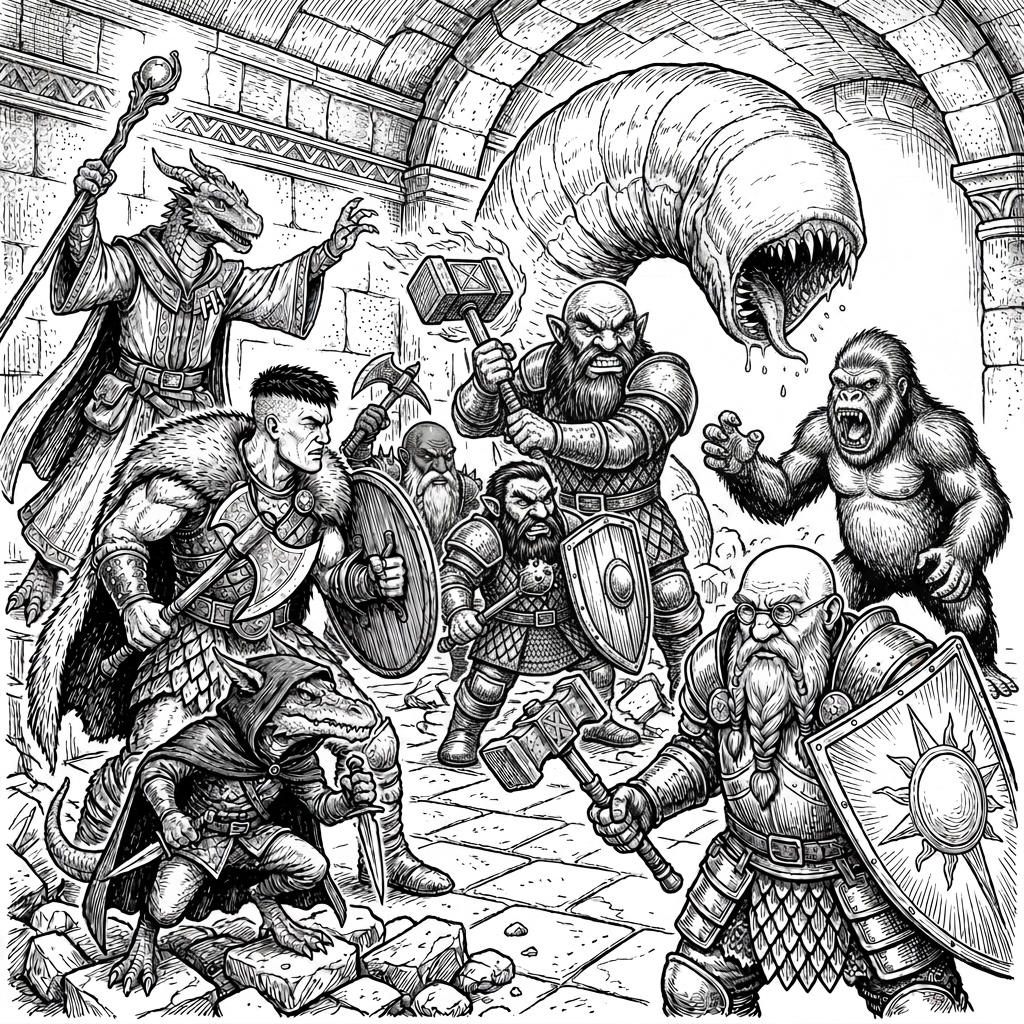
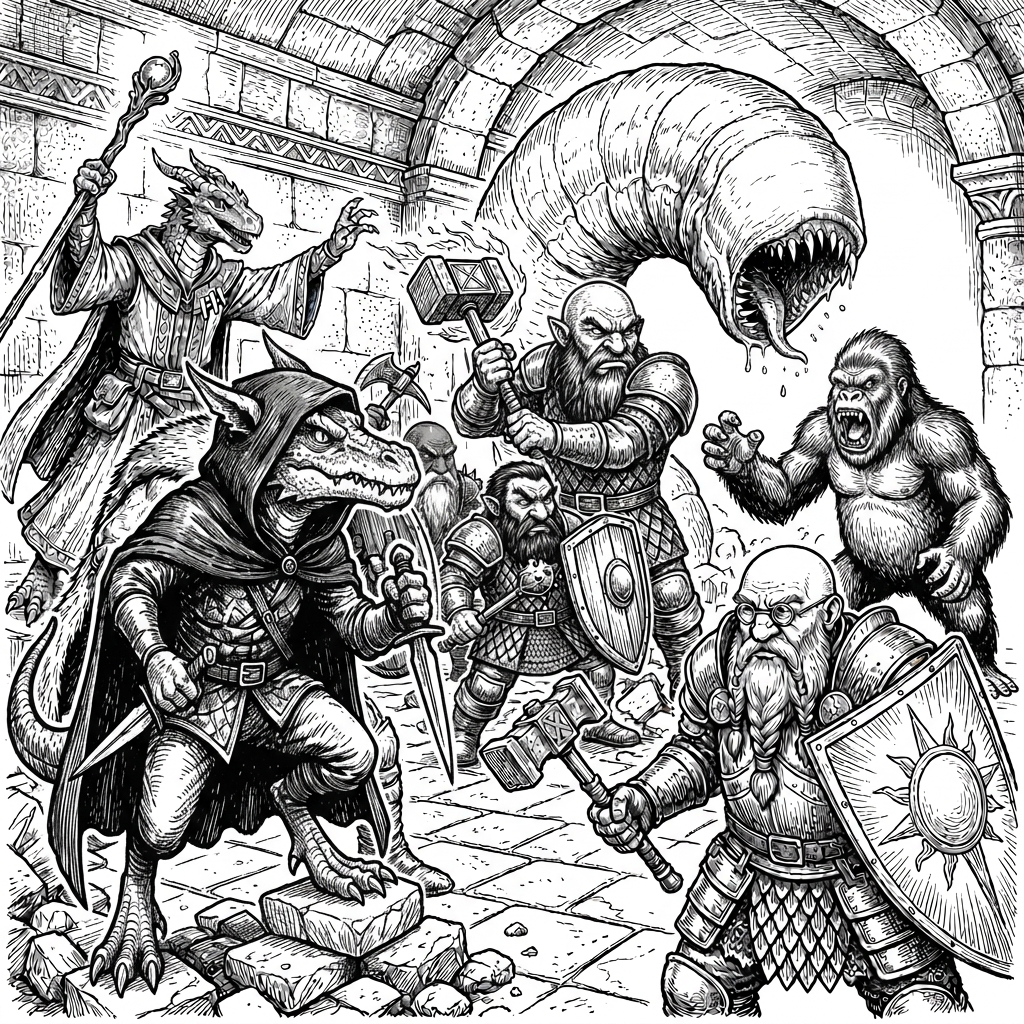
feat: enlarge Nibbles and turn Duergar toward Thorn in Chapter 7 Assembly Hall illustration [skip netlify]

diff --git a/src/lib/build-info.ts b/src/lib/build-info.ts
@@ -1,3 +1,3 @@
 // Generated by scripts/write-build-info.mjs — do not edit
-export const SITE_EDITION = "5bd14f1";
-export const SITE_BUILT_AT = "2026-07-27T12:01:37.340Z";
+export const SITE_EDITION = "b829a4c";
+export const SITE_BUILT_AT = "2026-07-27T12:03:09.053Z";
